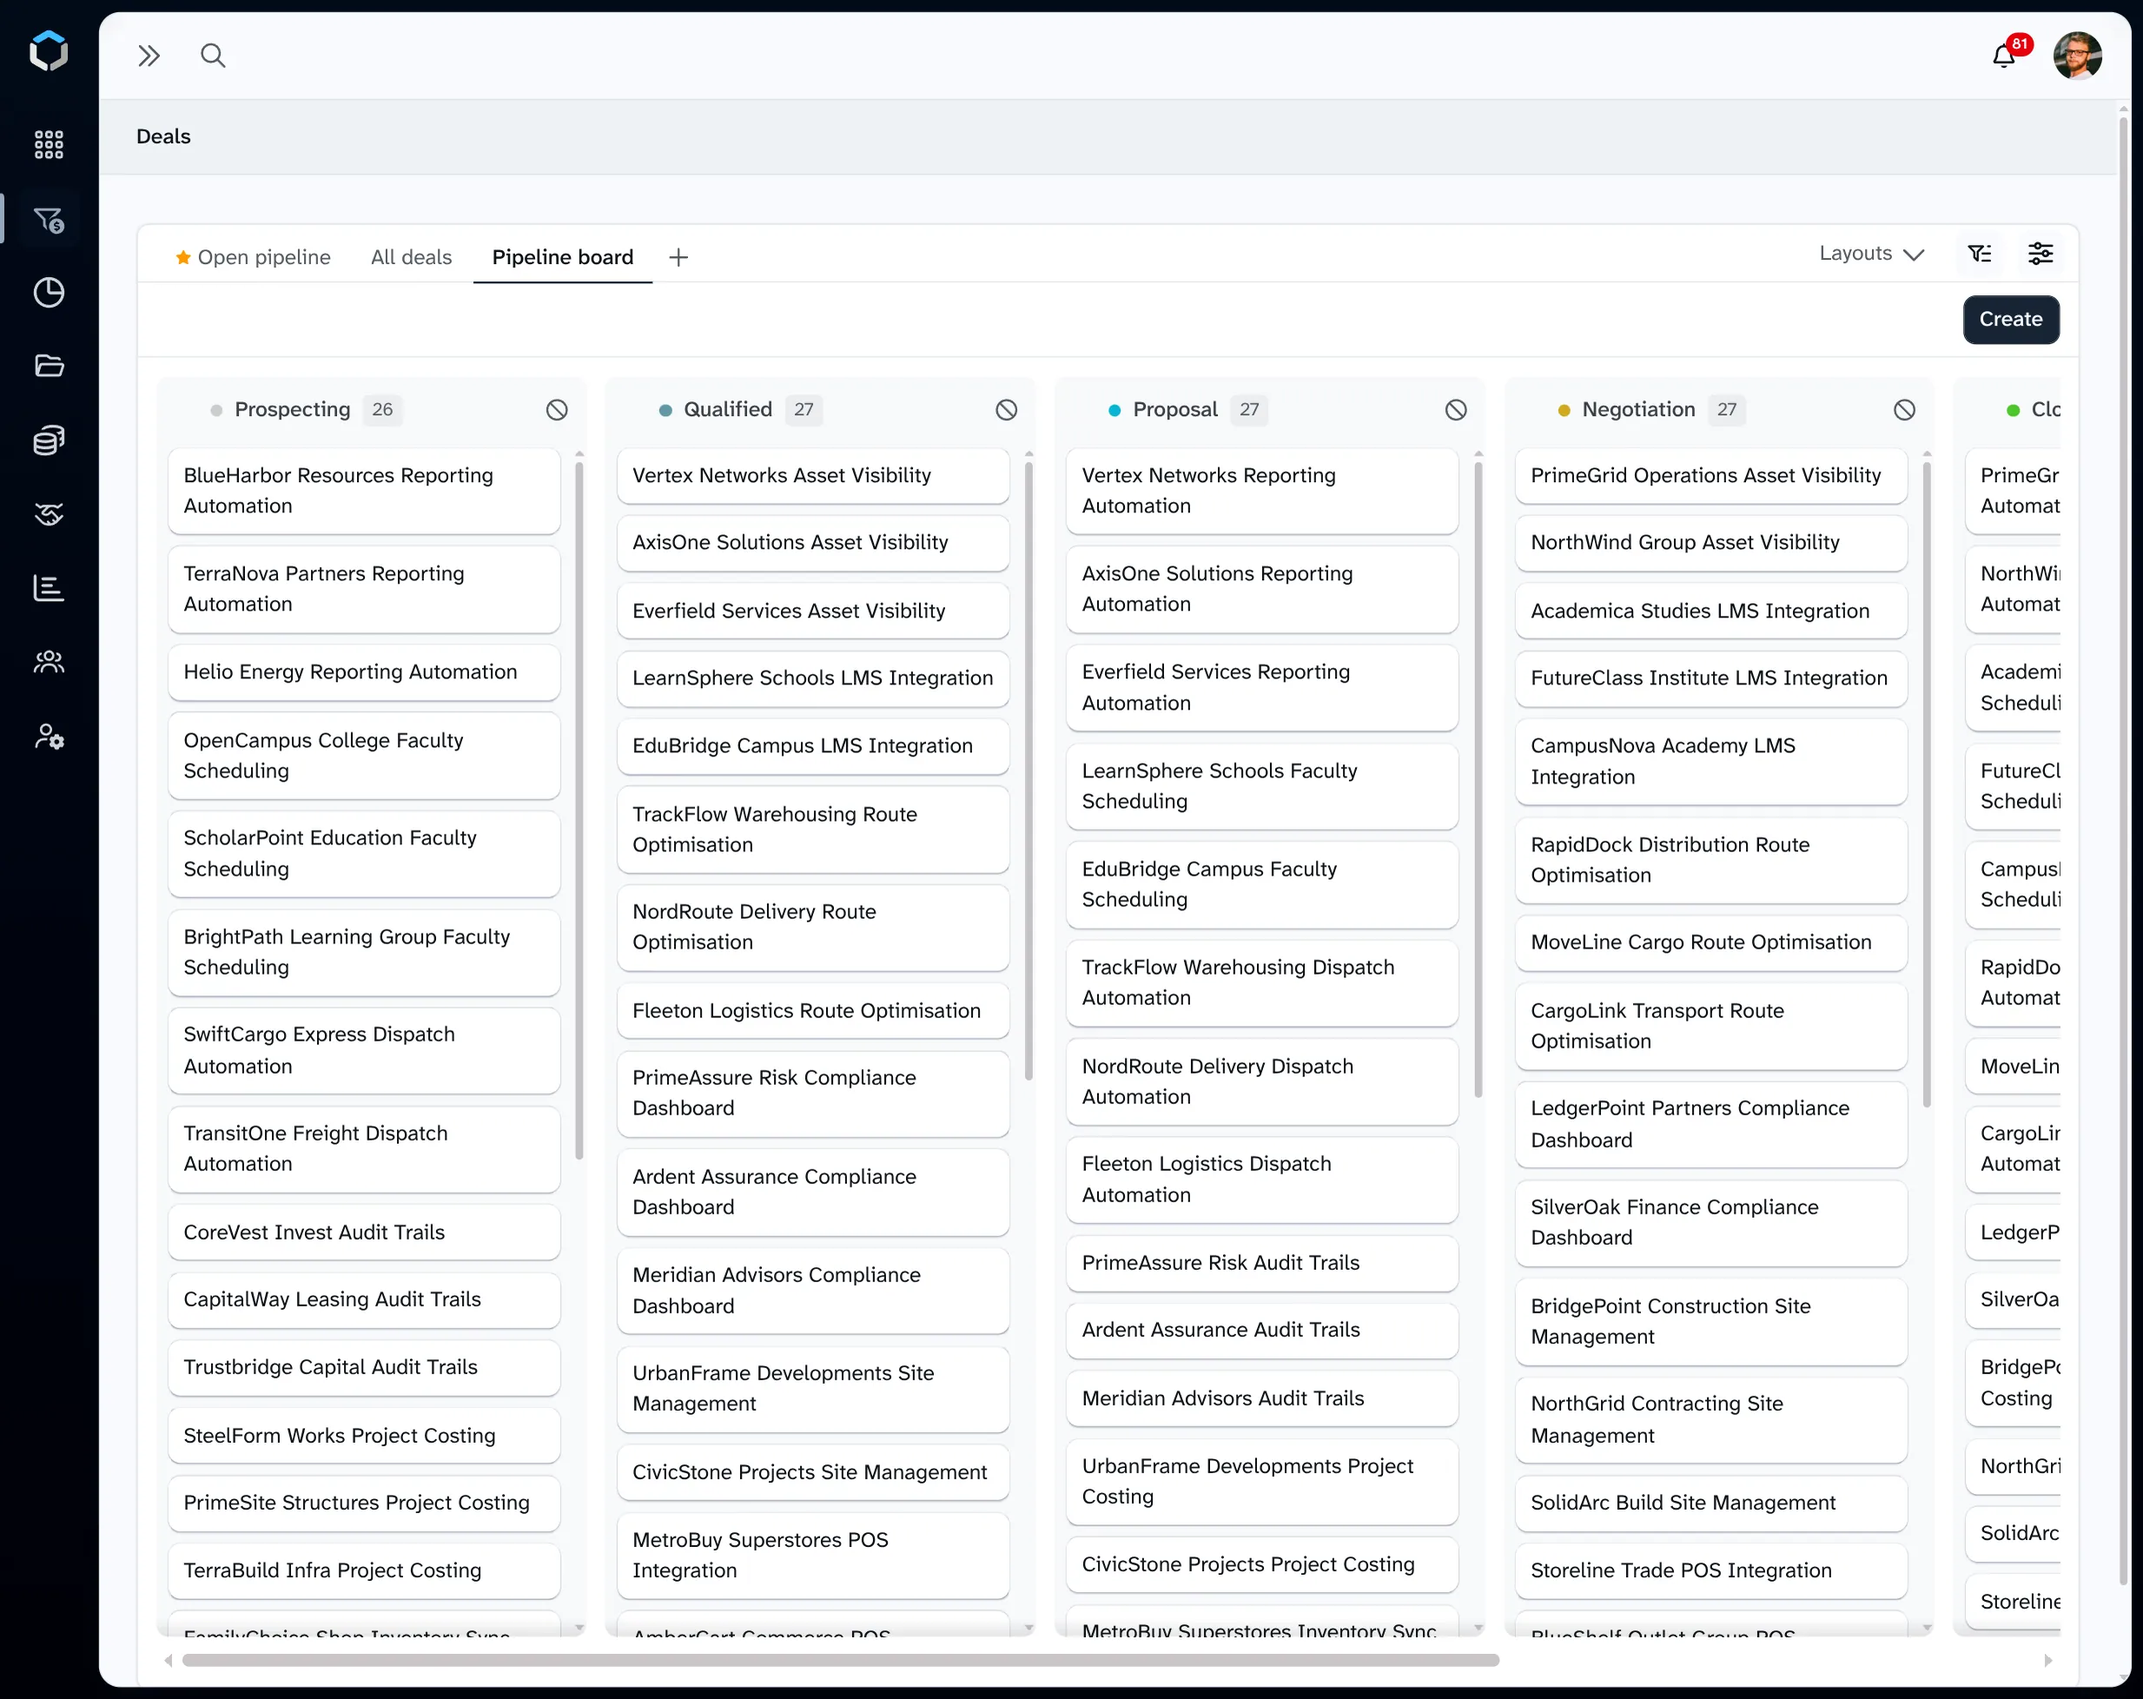
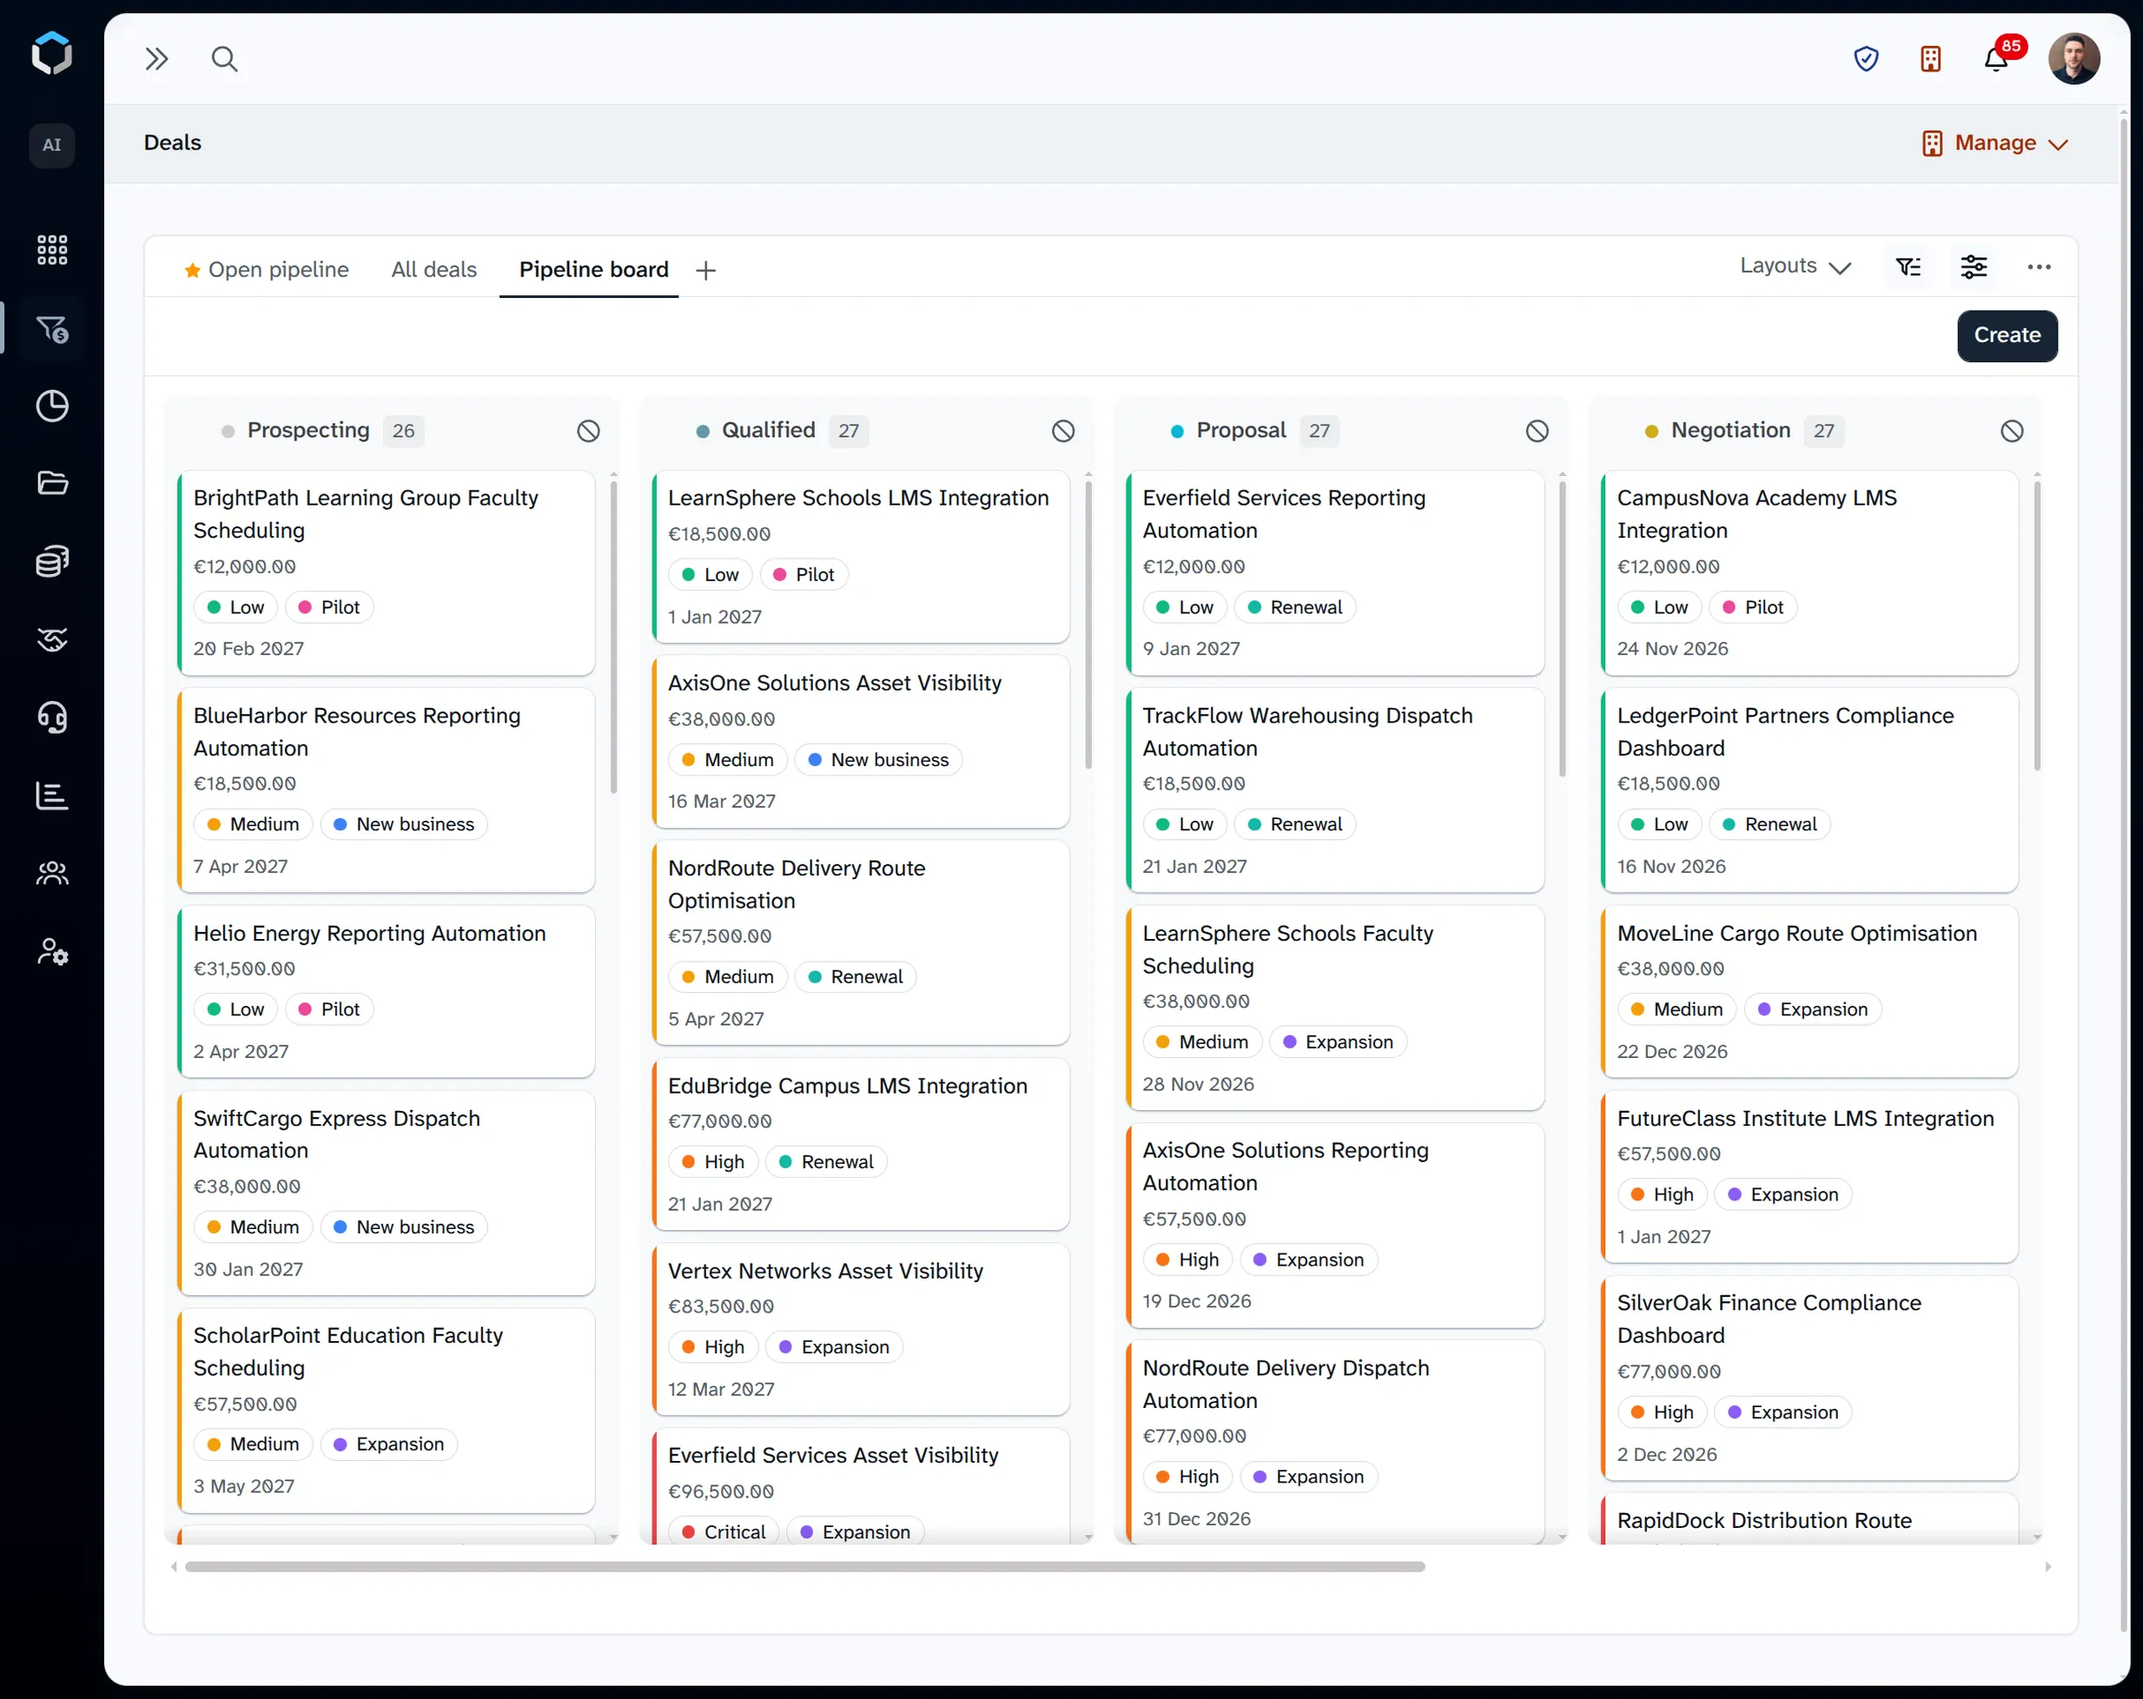
Refresh the Opero hero kanban and comparison slider
Replace the hero with a richer, more colourful deals board, and show a
populated reservations calendar on the "after" side of the slider. Update
the slider's Polish and English labels and alt text to match.

diff --git a/content/pl/opero.ts b/content/pl/opero.ts
@@ -23,11 +23,11 @@ export const operoProductContent: OperoProductContent = {
       "Zamiast przekazywać fragmenty pracy między osobnymi narzędziami, Opero zachowuje całą historię w jednym miejscu. Od początku do końca pozostaje widoczne, co się wydarzyło, kto podjął działanie, jakie decyzje zapadły i co należy zrobić dalej.",
     comparison: {
       title: "Zgłoszenia klientów",
-      ariaLabel: "Porównaj widok listy i tablicy zadań dla zgłoszeń klientów",
+      ariaLabel: "Porównaj listę zgłoszeń klientów z kalendarzem rezerwacji",
       beforeLabel: "Widok listy",
       beforeAlt: "Zgłoszenia klientów przedstawione jako uporządkowana lista w Opero",
-      afterLabel: "Tablica zadań",
-      afterAlt: "Te same zgłoszenia klientów przedstawione jako tablica procesu w Opero",
+      afterLabel: "Kalendarz rezerwacji",
+      afterAlt: "Rezerwacje zasobów przedstawione jako kalendarz miesięczny w Opero",
     },
     story: {
       ariaLabel: "Jak zgłoszenie klienta staje się działającym procesem w Opero",

diff --git a/content/en/opero.ts b/content/en/opero.ts
@@ -23,11 +23,11 @@ export const operoProductContent: OperoProductContent = {
       "Instead of passing fragments of work between separate tools, Opero keeps the whole story together. What happened, who acted, what was decided and what comes next remain visible from start to finish.",
     comparison: {
       title: "Customer requests",
-      ariaLabel: "Compare the list and task-board views of customer requests",
+      ariaLabel: "Compare the customer request list with the reservations calendar",
       beforeLabel: "List view",
       beforeAlt: "Customer requests displayed as a structured list in Opero",
-      afterLabel: "Tasks board",
-      afterAlt: "The same customer requests displayed as a workflow board in Opero",
+      afterLabel: "Reservations calendar",
+      afterAlt: "Resource reservations displayed as a monthly calendar in Opero",
     },
     story: {
       ariaLabel: "How a customer request becomes a working Opero process",
